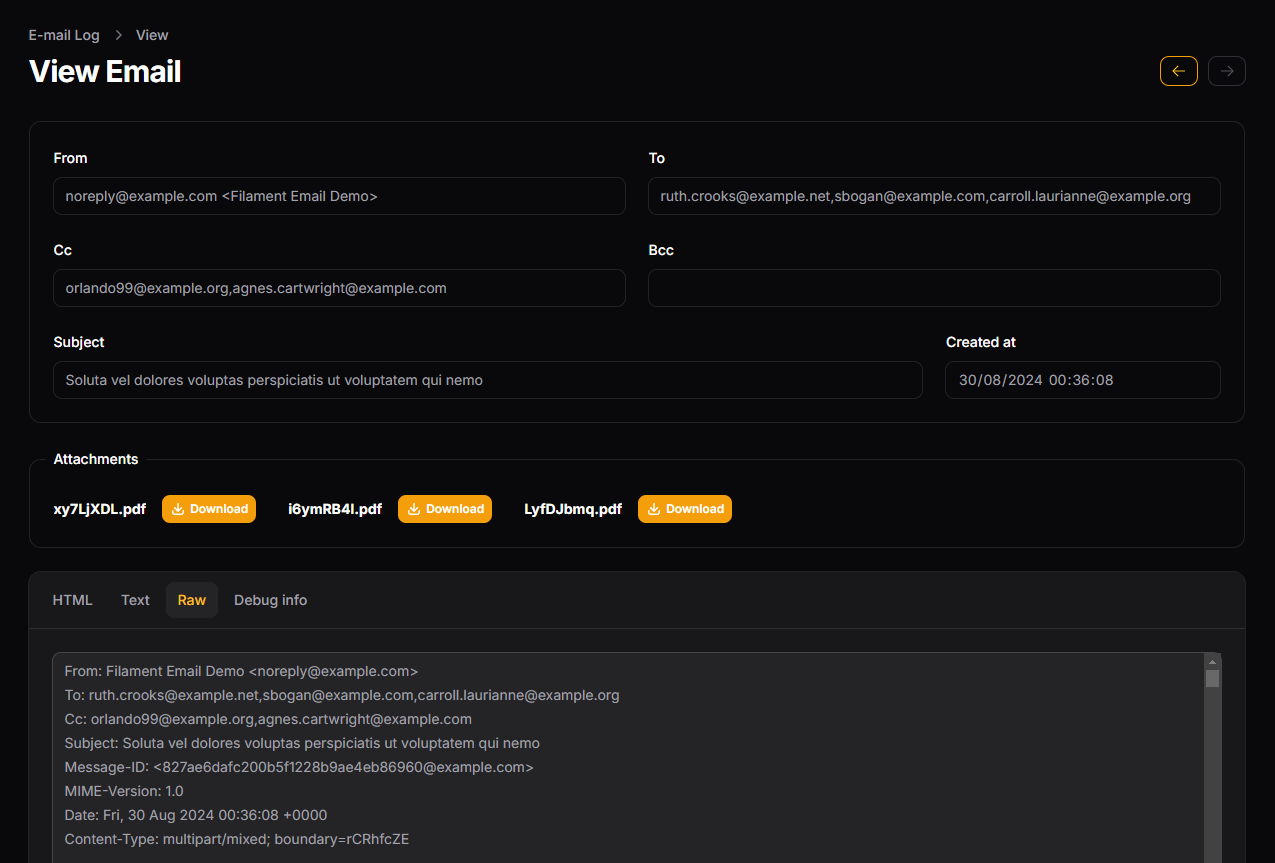
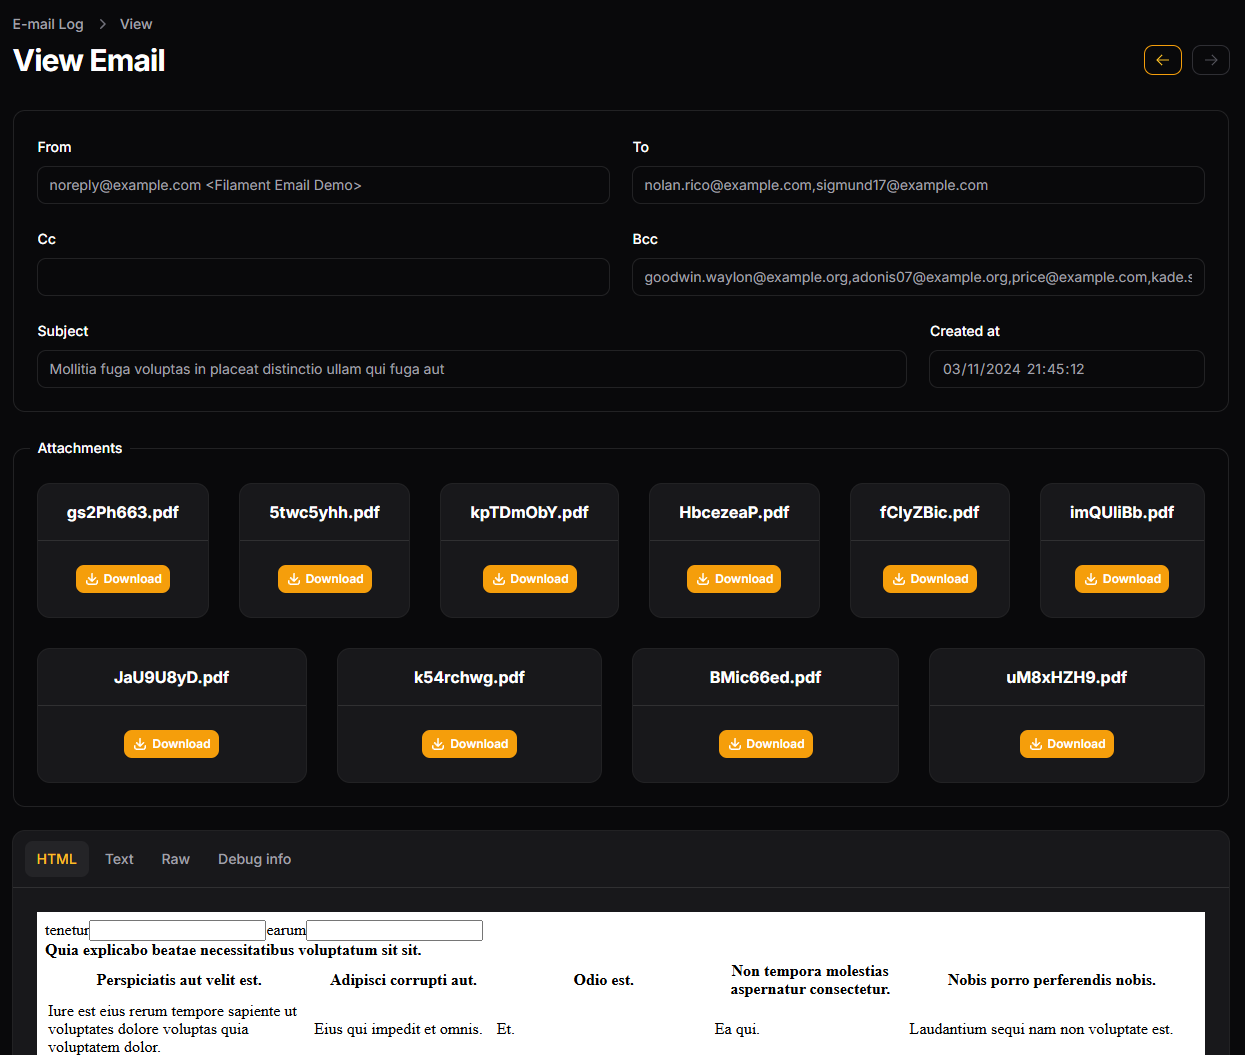
New from and attachments table filter. New resend e-mail bulk action. Enhanched attachments section into view. Updated translations.

diff --git a/src/Filament/Resources/EmailResource.php b/src/Filament/Resources/EmailResource.php
@@ -4,6 +4,7 @@ namespace RickDBCN\FilamentEmail\Filament\Resources;
 
 use Filament\Forms\Components\DateTimePicker;
 use Filament\Forms\Components\Fieldset;
+use Filament\Forms\Components\Select;
 use Filament\Forms\Components\Tabs;
 use Filament\Forms\Components\TagsInput;
 use Filament\Forms\Components\Textarea;
@@ -17,13 +18,16 @@ use Filament\Resources\Resource;
 use Filament\Support\Enums\IconSize;
 use Filament\Support\Enums\MaxWidth;
 use Filament\Tables\Actions\Action;
+use Filament\Tables\Actions\BulkAction;
 use Filament\Tables\Actions\DeleteBulkAction;
 use Filament\Tables\Columns\TextColumn;
 use Filament\Tables\Filters\Filter;
 use Filament\Tables\Table;
 use Illuminate\Contracts\Support\Htmlable;
 use Illuminate\Database\Eloquent\Builder;
+use Illuminate\Database\Eloquent\Collection;
 use Illuminate\Support\Carbon;
+use Illuminate\Support\Facades\DB;
 use Illuminate\Support\Facades\Log;
 use Illuminate\Support\Facades\Mail;
 use Illuminate\Support\Str;
@@ -102,7 +106,7 @@ class EmailResource extends Resource
                             ->label(__('filament-email::filament-email.created_at')),
                     ])->columns(4),
                 Fieldset::make('attachments')
-                    ->hidden(fn (): bool => ! config('filament-email.store_attachments'))
+                    ->hidden(fn(): bool => !config('filament-email.store_attachments'))
                     ->label(__('filament-email::filament-email.attachments'))
                     ->schema([
                         View::make('filament-email::attachments')
@@ -147,7 +151,7 @@ class EmailResource extends Resource
                     ->icon('heroicon-o-eye')
                     ->iconSize(IconSize::Medium)
                     ->modalFooterActions(
-                        fn ($action): array => [
+                        fn($action): array => [
                             $action->getModalCancelAction(),
                         ])
                     ->fillForm(function ($record) {
@@ -204,7 +208,7 @@ class EmailResource extends Resource
                             ->nestedRecursiveRules([
                                 'email',
                             ])
-                            ->default(fn ($record): array => ! empty($record->to) ? explode(',', $record->to) : [])
+                            ->default(fn($record): array => !empty($record->to) ? explode(',', $record->to) : [])
                             ->required(),
                         TagsInput::make('cc')
                             ->label(__('filament-email::filament-email.cc'))
@@ -212,21 +216,21 @@ class EmailResource extends Resource
                             ->nestedRecursiveRules([
                                 'email',
                             ])
-                            ->default(fn ($record): array => ! empty($record->cc) ? explode(',', $record->cc) : []),
+                            ->default(fn($record): array => !empty($record->cc) ? explode(',', $record->cc) : []),
                         TagsInput::make('bcc')
                             ->label(__('filament-email::filament-email.bcc'))
                             ->placeholder(__('filament-email::filament-email.insert_multiple_email_placelholder'))
                             ->nestedRecursiveRules([
                                 'email',
                             ])
-                            ->default(fn ($record): array => ! empty($record->bcc) ? explode(',', $record->bcc) : []),
+                            ->default(fn($record): array => !empty($record->bcc) ? explode(',', $record->bcc) : []),
                         Toggle::make('attachments')
                             ->label(__('filament-email::filament-email.add_attachments'))
                             ->onColor('success')
                             ->offColor('danger')
                             ->inline(false)
-                            ->disabled(fn ($record): bool => empty($record->attachments))
-                            ->default(fn ($record): bool => ! empty($record->attachments))
+                            ->disabled(fn($record): bool => empty($record->attachments))
+                            ->default(fn($record): bool => !empty($record->attachments))
                             ->required(),
                     ])
                     ->action(function (Email $record, array $data) {
@@ -253,10 +257,10 @@ class EmailResource extends Resource
             ])
             ->columns([
                 TextColumn::make('from')
-                    ->prefix(__('filament-email::filament-email.from').': ')
-                    ->suffix(fn (Email $record): string => ! empty($record->attachments) ? ' ('.trans_choice('filament-email::filament-email.attachments_number', count($record->attachments)).')' : '')
+                    ->prefix(__('filament-email::filament-email.from') . ': ')
+                    ->suffix(fn(Email $record): string => !empty($record->attachments) ? ' (' . trans_choice('filament-email::filament-email.attachments_number', count($record->attachments)) . ')' : '')
                     ->label(__('filament-email::filament-email.header'))
-                    ->description(fn (Email $record): string => Str::limit(__('filament-email::filament-email.to').': '.$record->to, 40))
+                    ->description(fn(Email $record): string => Str::limit(__('filament-email::filament-email.to') . ': ' . $record->to, 40))
                     ->searchable(),
                 TextColumn::make('subject')
                     ->label(__('filament-email::filament-email.subject'))
@@ -268,6 +272,39 @@ class EmailResource extends Resource
 
             ])
             ->groupedBulkActions([
+                BulkAction::make('bulk-resend')
+                    ->label(__('filament-email::filament-email.resend_email_heading'))
+                    ->icon('heroicon-o-arrow-path')
+                    ->color('primary')
+                    ->iconSize(IconSize::Medium)
+                    ->tooltip(__('filament-email::filament-email.resend_email_heading'))
+                    ->requiresConfirmation()
+                    ->modalHeading(__('filament-email::filament-email.resend_email_heading'))
+                    ->modalDescription(__('filament-email::filament-email.resend_email_description'))
+                    ->modalIconColor('warning')
+                    ->deselectRecordsAfterCompletion()
+                    ->action(function (Collection $records) {
+                        try {
+                            foreach ($records as $record) {
+                                Mail::to($record->to)
+                                    ->cc($record->cc)
+                                    ->bcc($record->bcc)
+                                    ->send(new ResendMail($record));
+                            }
+                            Notification::make()
+                                ->title(__('filament-email::filament-email.resend_email_success'))
+                                ->success()
+                                ->duration(5000)
+                                ->send();
+                        } catch (\Exception $e) {
+                            Log::error($e->getMessage());
+                            Notification::make()
+                                ->title(__('filament-email::filament-email.resend_email_error'))
+                                ->danger()
+                                ->duration(5000)
+                                ->send();
+                        }
+                    }),
                 DeleteBulkAction::make()
                     ->requiresConfirmation(),
             ])
@@ -275,6 +312,9 @@ class EmailResource extends Resource
             ->filters([
                 Filter::make('headers-filter')
                     ->form([
+                        TextInput::make('from')
+                            ->label(__('filament-email::filament-email.from'))
+                            ->email(),
                         TextInput::make('to')
                             ->label(__('filament-email::filament-email.to'))
                             ->email(),
@@ -286,13 +326,23 @@ class EmailResource extends Resource
                             ->email(),
                         DateRangePicker::make('created_at')
                             ->label(__('filament-email::filament-email.sent_at')),
+                        Select::make('attachments')
+                            ->label(__('filament-email::filament-email.have_attachments'))
+                            ->options([
+                                'no' => ucfirst(__('filament-email::filament-email.no')),
+                                'yes' => ucfirst(__('filament-email::filament-email.yes')),
+                            ]),
                     ])
                     ->columns(2)
                     ->indicateUsing(function (array $data): array {
                         $indicators = [];
                         foreach ($data as $field => $value) {
                             if ($data[$field] ?? null) {
-                                $indicators[$field] = __('filament-email::filament-email.'.$field).": $value";
+                                if ($field === 'attachments') {
+                                    $indicators[$field] = __('filament-email::filament-email.' . $field) . ": " . ($value === 'yes' ? __('filament-email::filament-email.yes') : __('filament-email::filament-email.no'));
+                                } else {
+                                    $indicators[$field] = __('filament-email::filament-email.' . $field) . ": $value";
+                                }
                             }
                         }
 
@@ -301,16 +351,25 @@ class EmailResource extends Resource
                     ->query(function (Builder $query, array $data): Builder {
                         return $query
                             ->when(
+                                $data['from'],
+                                fn(Builder $query, $value): Builder => $query->where('from', 'like', "%$value%"),
+                            )
+                            ->when(
                                 $data['to'],
-                                fn (Builder $query, $value): Builder => $query->where('to', 'like', "%$value%"),
+                                fn(Builder $query, $value): Builder => $query->where('to', 'like', "%$value%"),
                             )
                             ->when(
                                 $data['cc'],
-                                fn (Builder $query, $value): Builder => $query->where('cc', 'like', "%$value%"),
+                                fn(Builder $query, $value): Builder => $query->where('cc', 'like', "%$value%"),
                             )
                             ->when(
                                 $data['bcc'],
-                                fn (Builder $query, $value): Builder => $query->where('bcc', 'like', "%$value%"),
+                                fn(Builder $query, $value): Builder => $query->where('bcc', 'like', "%$value%"),
+                            )
+                            ->when(
+                                $data['attachments'],
+                                //JSON_LENGTH
+                                fn(Builder $query, $value): Builder => $query->where(DB::raw('JSON_LENGTH(attachments)'), $value === 'yes' ? '>' : '=', 0),
                             )
                             ->when(
                                 $data['created_at'],
@@ -333,7 +392,7 @@ class EmailResource extends Resource
             ->paginationPageOptions(function (Table $table) {
                 $options = config('filament-email.pagination_page_options');
 
-                return ! empty($options) && is_array($options) ? $options : $table->getPaginationPageOptions();
+                return !empty($options) && is_array($options) ? $options : $table->getPaginationPageOptions();
             });
     }
 
@@ -349,7 +408,7 @@ class EmailResource extends Resource
     {
         $roles = config('filament-email.can_access.role', []);
 
-        if (method_exists(filament()->auth()->user(), 'hasRole') && ! empty($roles)) {
+        if (method_exists(filament()->auth()->user(), 'hasRole') && !empty($roles)) {
             return filament()->auth()->user()->hasRole($roles);
         }
 

diff --git a/resources/views/attachments.blade.php b/resources/views/attachments.blade.php
@@ -3,18 +3,12 @@
 @if(!empty($attachments))
     <div class="flex flex-wrap gap-8">
         @foreach($attachments as $attachment)
-            <div class="basis-1/4 me-3">
-                <div class="flex items-center space-x-6 rtl:space-x-reverse">
-                    <div class="flex-initial min-w-0 pe-4">
-                        <p class="text-sm font-medium text-gray-900 truncate dark:text-white">
-                            <strong>{{ $attachment['name'] }}</strong>
-                        </p>
-                    </div>
-                    <div class="inline-flex items-center text-base font-semibold text-gray-900 dark:text-white">
-                        {{ ($this->downloadAction)(['path' => $attachment['path'], 'name' => $attachment['name'] , 'type' => $attachment['contentType']]) }}
-                    </div>
-                </div>
-            </div>
+            <x-filament::section class="text-center grow">
+                <x-slot name="heading">
+                    <strong>{{ $attachment['name'] }}</strong>
+                </x-slot>
+                {{ ($this->downloadAction)(['path' => $attachment['path'], 'name' => $attachment['name'] , 'type' => $attachment['contentType']]) }}
+            </x-filament::section>
         @endforeach
     </div>
 @endif

diff --git a/src/Providers/EmailMessageServiceProvider.php b/src/Providers/EmailMessageServiceProvider.php
@@ -6,7 +6,6 @@ use Illuminate\Mail\Events\MessageSent;
 use Illuminate\Support\Facades\Event;
 use Illuminate\Support\ServiceProvider;
 use RickDBCN\FilamentEmail\Listeners\FilamentEmailLogger;
-
 class EmailMessageServiceProvider extends ServiceProvider
 {
     public function boot(): void
@@ -16,10 +15,4 @@ class EmailMessageServiceProvider extends ServiceProvider
             [FilamentEmailLogger::class, 'handle']
         );
     }
-    //    protected $listen = [
-    //        MessageSent::class => [
-    //            FilamentEmailLogger::class,
-    //        ],
-    //    ];
-
 }

diff --git a/resources/lang/it/filament-email.php b/resources/lang/it/filament-email.php
@@ -31,4 +31,7 @@ return [
     'attachments_number' => ':count allegato|:count allegati',
     'previous' => 'Precedente',
     'next' => 'Prossimo',
+    'have_attachments' => 'Contiene allegati?',
+    'yes' => 'si',
+    'no' => 'no',
 ];

diff --git a/resources/lang/en/filament-email.php b/resources/lang/en/filament-email.php
@@ -31,4 +31,7 @@ return [
     'attachments_number' => ':count attachment|:count attachments',
     'previous' => 'Previous',
     'next' => 'Next',
+    'have_attachments' => 'Have attachments?',
+    'yes' => 'yes',
+    'no' => 'no',
 ];

diff --git a/resources/lang/de/filament-email.php b/resources/lang/de/filament-email.php
@@ -31,4 +31,7 @@ return [
     'attachments_number' => ':count Anhang|:count Anhänge',
     'previous' => 'Vorherige',
     'next' => 'Nächste',
+    'have_attachments' => 'Anhänge haben?',
+    'yes' => 'ja',
+    'no' => 'nein',
 ];

diff --git a/resources/lang/nl/filament-email.php b/resources/lang/nl/filament-email.php
@@ -31,4 +31,7 @@ return [
     'attachments_number' => ':count bijlage|:count bijlagen',
     'previous' => 'Vorig',
     'next' => 'Volgende',
+    'have_attachments' => 'Heb bijlagen?',
+    'yes' => 'ja',
+    'no' => 'nee',
 ];

diff --git a/resources/lang/pt/filament-email.php b/resources/lang/pt/filament-email.php
@@ -31,4 +31,7 @@ return [
     'attachments_number' => ':count anexo|:count anexos',
     'previous' => 'Próximo',
     'next' => 'Anterior',
+    'have_attachments' => 'Tem anexos?',
+    'yes' => 'sim',
+    'no' => 'não',
 ];

diff --git a/resources/lang/tr/filament-email.php b/resources/lang/tr/filament-email.php
@@ -31,4 +31,7 @@ return [
     'attachments_number' => ':count ek|:count ek',
     'previous' => 'Öncesi',
     'next' => 'Sonraki',
+    'have_attachments' => 'Ekleri var?',
+    'yes' => 'evet',
+    'no' => 'hayir',
 ];
